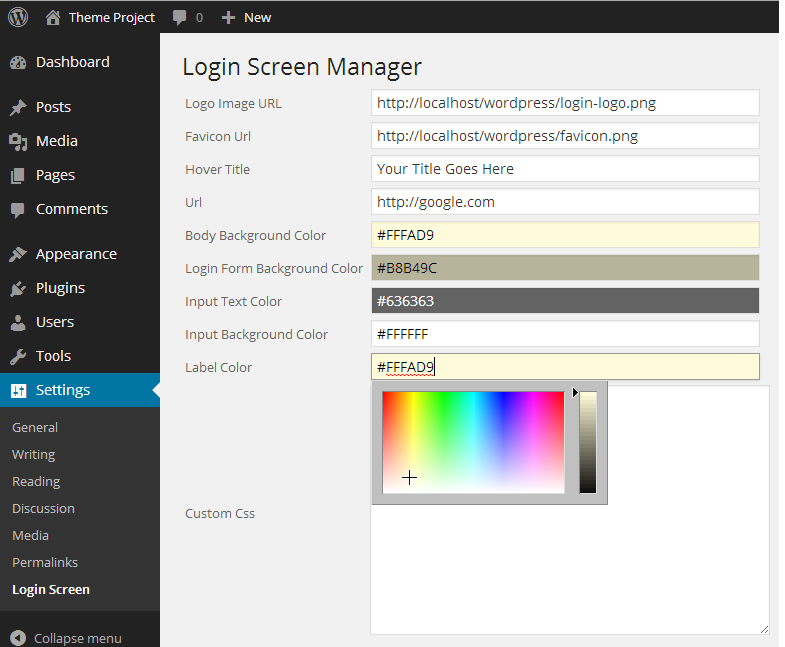
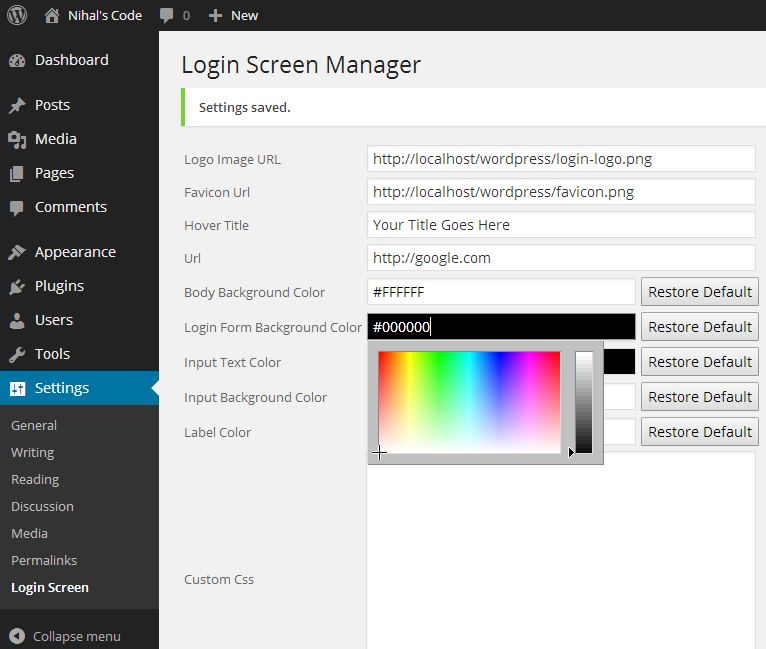
Version 2.1
git-svn-id: https://plugins.svn.wordpress.org/login-screen-manager/trunk@881695 b8457f37-d9ea-0310-8a92-e5e31aec5664

diff --git a/inc/js/jscolor.js b/inc/js/jscolor.js
@@ -8,7 +8,31 @@
  * @updated 2012-07-06
  * @link    http://jscolor.com
  */
-
+ 
+ 
+function cw_df_body_bg_color(){
+	document.getElementById("cwlsm_settings[body_bg_color]").value = "#F1F1F1";
+}
+ 
+function cw_df_login_form_bg_color(){
+	document.getElementById("cwlsm_settings[login_form_bg_color]").value = "#FFFFFF";
+}
+ 
+function cw_df_text_input_color(){
+	document.getElementById("cwlsm_settings[text_input_color]").value = "#000000";
+}
+ 
+function cw_df_input_bg_color(){
+	document.getElementById("cwlsm_settings[input_bg_color]").value = "#FFFFFF";
+}
+ 
+function cw_df_label_color(){
+	document.getElementById("cwlsm_settings[label_color]").value = "#000000";
+}
+ 
+ 
+ 
+ 
 
 var jscolor = {
 

diff --git a/inc/admin.php b/inc/admin.php
@@ -13,7 +13,7 @@ function cwlsm_options_page() {
 				"fav_icon_url" => array("text"=>"Favicon Url","class"=>"cwlsm_file"),
 				"hover_title" => array("text"=>"Hover Title","class"=>"cwlsm_file"),
 				"url" => array("text"=>"Url","class"=>"cwlsm_file"),
-				"body_bg_color" => array("text"=>"Body Background Color","class"=>"color {hash:true}","default"=>"#000000"),
+				"body_bg_color" => array("text"=>"Body Background Color","class"=>"color {hash:true}","default"=>"#F1F1F1"),
 				"login_form_bg_color" =>  array("text"=>"Login Form Background Color","class"=>"color {hash:true}","default"=>"#FFFFFF"),
 				"text_input_color" => array("text"=>"Input Text Color","class"=>"color {hash:true}","default"=>"#000000"),
 				"input_bg_color" => array("text"=>"Input Background Color","class"=>"color {hash:true}","default"=>"#FFFFFF"),
@@ -22,40 +22,47 @@ function cwlsm_options_page() {
 		?>
 		<form method="post" action="options.php">
 			<?php settings_fields('cwlsm_settings_group'); ?>
-			<table style="width:600px;float:left;">
+			<table style="width:585px;float:left;">
 				<!-- Media Uploader -->
 				<!-- Media Uploader -->
 				<?php foreach ($input as $name => $data) : ?>
 				<tr>
 					<td style="text-align:;"><label class="description" for="cwlsm_settings[<?php echo $name; ?>]"><?php _e($data["text"], 'cwlsm_domain'); ?></label></td>
-					<td><input class="<?php echo $data["class"]; ?>" id="cwlsm_settings[<?php echo $name; ?>]" size="45" name="cwlsm_settings[<?php echo $name; ?>]" type="text" value="<?php if(empty($cwlsm_options[$name])){echo $data["default"]; }else{ echo $cwlsm_options[$name];} ?>"/></td>
+					<?php if($data["class"]=="color {hash:true}"): ?>
+					<td><input class="<?php echo $data["class"]; ?>" id="cwlsm_settings[<?php echo $name; ?>]" size="30" name="cwlsm_settings[<?php echo $name; ?>]" type="text" value="<?php if(empty($cwlsm_options[$name])){echo $data["default"]; }else{ echo $cwlsm_options[$name];} ?>"/>
+					<input type="button" value="Restore Default" onclick="cw_df_<?php echo $name; ?>()" />
+					<?php else:?>
+					<td><input class="<?php echo $data["class"]; ?>" id="cwlsm_settings[<?php echo $name; ?>]" size="45" name="cwlsm_settings[<?php echo $name; ?>]" type="text" value="<?php if(empty($cwlsm_options[$name])){echo $data["default"]; }else{ echo $cwlsm_options[$name];} ?>"/>
+					<?php endif;?>
+					
+					</td>
 				</tr>
 				<?php endforeach; ?>
 				<tr>
 					<td><label class="description" for="cwlsm_settings[css]"><?php _e("Custom Css", 'cwlsm_domain'); ?></label></td>
-					<td><textarea id="cwlsm_settings[css]" style="height:250px;width:400px;"  name="cwlsm_settings[css]" type="text"><?php echo $cwlsm_options["css"]; ?></textarea></td>
+					<td><textarea id="cwlsm_settings[css]" style="height:250px;width:390px;"  name="cwlsm_settings[css]" type="text"><?php echo $cwlsm_options["css"]; ?></textarea></td>
 				</tr>
-				<tr><td></td><td><a href="http://wordpress.org/extend/plugins/login-screen-manager/" target="_blank">Hey Rate this Plugin </a></td></tr>
+				<tr><td></td><td><a style="text-decoration:none;" href="http://wordpress.org/extend/plugins/login-screen-manager/" target="_blank">Hey Rate this Plugin </a>and don't forget to visit my <a style="text-decoration:none;" href="http://www.NihalsCode.com/" target="_blank">site</a>.</td></tr>
 				<tr>
 					<td></td>
 					<td class="submit"><input type="submit" class="button-primary" value="<?php _e('Save Options', 'cwlsm_domain'); ?>" /></td>
 				</tr>
 			</table>
-			<div style="float:right;text-align:right;width:200px;">
-			 
-				<span style="font-size:32px;">Hello!</span><br />
-				I am Nihal <br />
-				I need your support.I have lost my domain name.
-				I registered that domain in 2012.
-				After a year in 2013 my domain expired.
-				Because of my exam I didn't renew it.
-				Now my domain became a premium domain name and it costs $700.
-				Now I am working so that I can get my domain back.
-				So I need your help.Please 
-				<span style="font-size:18px;"><b><a href="http://goo.gl/dxNcHZ" target="_blank">donate</a></b></span>
-				for this plugin. 
-							 
-
+			<div style="float:right;text-align:center;width:200px;border:1px solid #D9D9D9;padding:10px;">
+				<span style="font-size:18px;"><b>Need help?</b></span>
+				<div style="padding:5px;">
+					Visit <b><a style="text-decoration:none;" href="http://www.NihalsCode.com/" target="_blank">NihalsCode.com</a></b> <br />
+				</div>
+				<div style="padding:5px;">
+					<span style="font-size:18px;"><b>Follow On Facebook</b></span>
+					<br />
+					<div style="margin-top:10px;">
+					<a href="http://www.facebook.com/nazmul.hossain.nihal" target="_blank">
+						<img src="http://graph.facebook.com/nazmul.hossain.nihal/picture?height=130&width=130" />
+					</a>
+					<iframe src="//www.facebook.com/plugins/follow.php?href=https%3A%2F%2Fwww.facebook.com%2Fnazmul.hossain.nihal&amp;width=200&amp;height=80&amp;colorscheme=light&amp;layout=standard&amp;show_faces=true" scrolling="no" frameborder="0" style="border:none; overflow:hidden; width:200px; height:80px;" allowTransparency="true"></iframe>
+					</div>
+				</div>
 			</div>
 		</form>
 		

diff --git a/login-screen-manager.php b/login-screen-manager.php
@@ -1,12 +1,12 @@
 <?php
 /*
 Plugin Name: Login Screen Manager
-Plugin URI: http://wordpress.org/extend/plugins/login-screen-manager
+Plugin URI: http://www.NihalsCode.com/
 Description: This plugin is for managing your login screen of WordPress site.
-Tags: login screen,login logo,wp-login.php,coding war,Nazmul Hossain Nihal,codingwar.com,logos,login screen manager,admin
-Version: 2.0
+Tags: login screen,login logo,wp-login.php,admin,Nazmul Hossain Nihal,logos,login screen manager,nihal's,code
+Version: 2.1
 Author:	Nazmul Hossain Nihal
-Author URI: http://www.codingwar.com
+Author URI: http://www.NihalsCode.com/
 License: GPLv2 or later
 License URI: http://www.gnu.org/licenses/gpl-2.0.html
 */

diff --git a/inc/display.php b/inc/display.php
@@ -13,7 +13,11 @@
 	
 	<style type="text/css">
 	/* Login Screen Manager : Css : Change Logo */
-	h1 a { background-image:url(<?php echo$cwlsm_options["logo_url"];  ?>) !important; }
+	.login h1 a { background-image:url(<?php echo $cwlsm_options["logo_url"];  ?>)!important; }
+	<?php list($cwwidth, $cwheight, $cwtype, $cwattr) = getimagesize($cwlsm_options["logo_url"]); ?>
+	.login h1 a{ height:<?php echo $cwheight; ?>px!important; width:<?php echo $cwwidth; ?>px!important;}
+	.login h1 a{ background-size:100% 100%!important;}
+	.login h1{margin:0px!important;}
 	</style>
 	
 	<?php endif;?>
